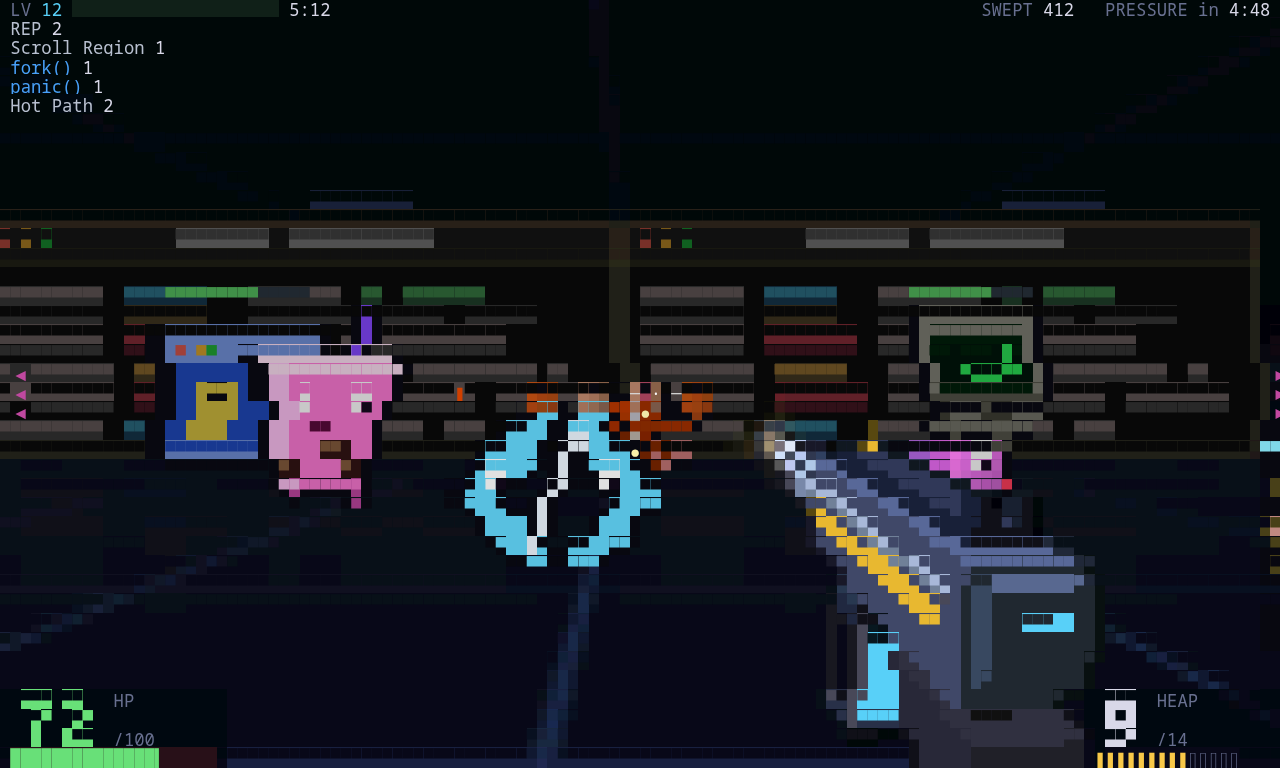
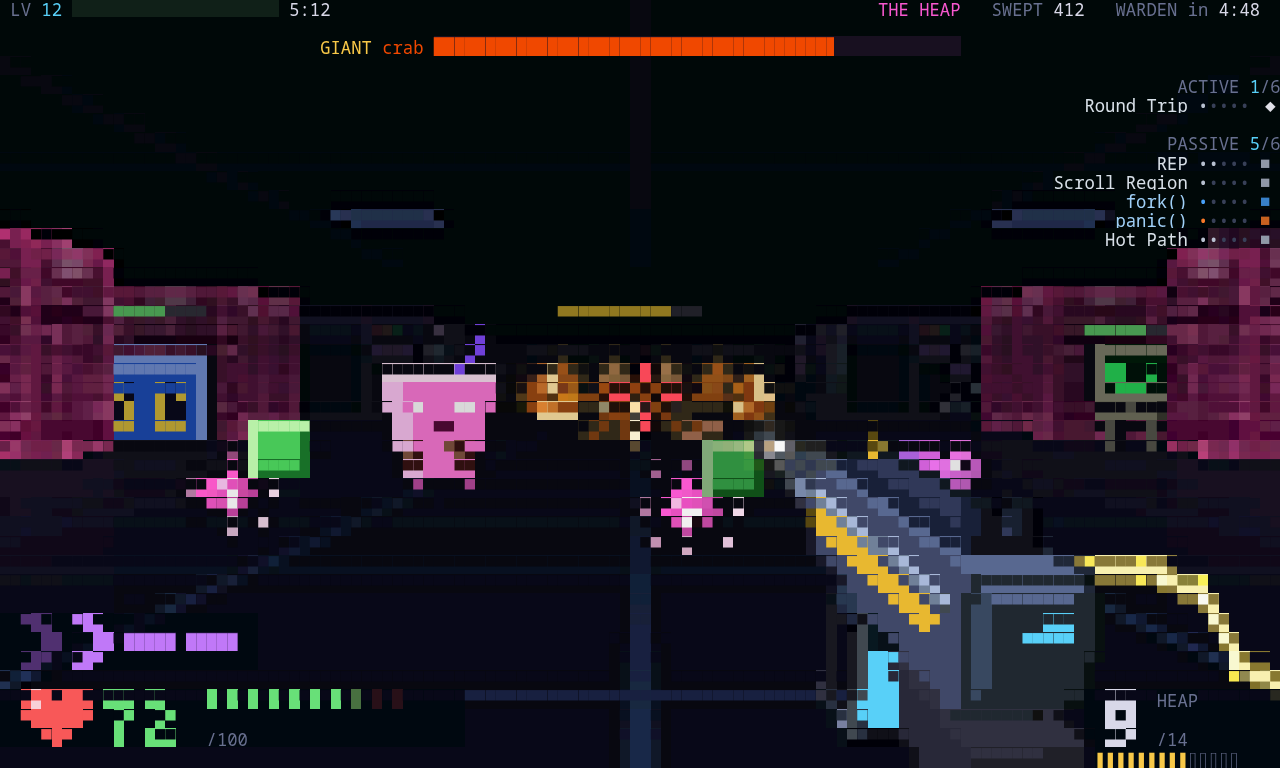
docs: Lemon Sweep's picture as it plays now; Castle Lemonstein off the README
The README's picture of Lemon Sweep was the first version's. The poster
scene (DUMP) now shows a giant crab mini-boss under its bar, a tview modal,
a Bubble Tea cup and an ncurses box at depths of their own, green bytes in
the air, a boomerang, an arc, and the heart and dash mark. Castle
Lemonstein's section is gone from both READMEs; the games are under one
heading. The text says how a run goes now: a map chosen, mini-bosses, bosses
on the clock, the warden, bytes to walk over. Bytes close up stay at most
six pixels square. Lemon Sweep builds against the Limoni with 24-bit colour
in Windows Terminal.

diff --git a/apps/lemonsweep/dump_test.go b/apps/lemonsweep/dump_test.go
@@ -424,19 +424,21 @@ func TestDumpFrame(t *testing.T) {
 	shots["boss-textual"] = boss(kTextual, false, 12)
 	shots["poster"] = func() *game {
 		g := playing()
-		g.pos, g.ang = vec{16.12, 28.2}, -math.Pi/2
+		g.pos, g.ang = vec{16.0, 24.5}, -math.Pi/2
 		g.level, g.kills, g.runTime = 12, 412, 312
+		g.stageT = 312
 		g.bossAt = 1e9 // no boss on the poster
 		for _, a := range []augID{augREP, augREP, augFork, augPanic, augHotPath, augHotPath, augScroll} {
 			pickN(g, a, 1)
 		}
+		pickN(g, augRoundTrip, 1)
 		place := []struct {
 			k kindID
 			p vec
 		}{
-			{kModal, vec{13.9, 22.7}}, {kCrab, vec{15.95, 22.6}}, {kElder, vec{18.0, 22.7}},
-			{kBoba, vec{14.9, 24.4}}, {kBar, vec{17.1, 24.5}},
-			{kJSX, vec{15.9, 25.7}}, {kSpinner, vec{14.4, 26.0}}, {kSpinner, vec{14.0, 26.25}}, {kSpinner, vec{17.6, 26.1}},
+			{kModal, vec{12.25, 17.0}}, {kElder, vec{19.75, 17.0}},
+			{kBoba, vec{15.1, 20.0}}, {kBar, vec{17.0, 20.5}},
+			{kSpinner, vec{14.75, 21.5}}, {kSpinner, vec{16.13, 21.9}},
 		}
 		for _, e := range place {
 			i := g.addEnemy(e.k, e.p)
@@ -445,12 +447,27 @@ func TestDumpFrame(t *testing.T) {
 				g.enemies[i].hp = g.enemies[i].max * 0.6
 			}
 		}
+		// A mini-boss at the back, under its bar at the top; the rest at
+		// depths of their own, so none hides another.
+		if i := g.addEnemy(kCrab, vec{16.0, 15.0}); i >= 0 {
+			e := &g.enemies[i]
+			e.mini, e.elite, e.phaseOff = true, true, 0
+			e.hp, e.max = 380, 500
+		}
 		g.ammo = 9
 		g.hp = g.st.maxHP * 0.72
-		for i, a := range []float64{-1.66, -1.57, -1.5} {
-			g.shoot(g.pos.add(vec{0, -1.2 - float64(i)*0.9}), a, 10, 0, shotPlayer)
+		for i, a := range []float64{-1.62, -1.57, -1.52} {
+			g.shoot(g.pos.add(vec{0, -1.6 - float64(i)*1.1}), a, 10, 0, shotPlayer)
 		}
-		g.shoot(vec{15.2, 23.4}, math.Pi/2, 5, 0, shotBar)
+		for i, p := range []vec{{15.4, 18.0}, {16.9, 16.6}} {
+			j := g.shoot(p, -math.Pi/2, 10, 1, shotRang)
+			g.shots[j].age = 0.2 + 0.17*float64(i)
+		}
+		g.addArc(vec{16.4, 23.9}, vec{17.0, 20.5}, 0.3, 0.2, 0.3, hex(0xffe14a))
+		for _, p := range []vec{{15.5, 22.5}, {16.6, 21.7}, {14.6, 21.0}} {
+			g.dropBytes(p, 3)
+		}
+		g.dropBytes(vec{16.2, 22.0}, 6)
 		g.recoil = 0.62
 		g.mouseIn, g.mouseX, g.mouseY, g.viewW, g.viewH = true, 64, 21, 124, 40
 		g.msgT = 0

diff --git a/apps/lemonsweep/render.go b/apps/lemonsweep/render.go
@@ -882,7 +882,7 @@ func (g *game) drawByte(v *view, pos vec, o *orb) {
 	if o.xp >= 5 {
 		size = 0.2
 	}
-	n := int(math.Min(10, math.Max(1, size*2*rows)))
+	n := int(math.Min(6, math.Max(1, size*2*rows))) // close up, a square, not a wall of green
 	cy := 2 * (v.horizon + 0.5*rows - (0.3+0.08*math.Sin(o.t*5))*rows)
 	x0, y0 := int(sx)-n/2, int(cy)-n/2
 	k := (0.45 + 0.55*fog(depth)) * float32(0.85+0.15*math.Sin(o.t*6))

diff --git a/README_TR.md b/README_TR.md
@@ -220,24 +220,7 @@ backdrop-shell enable -scene synthwave    # ya da -image duvar.jpg, ya da -art b
 Kendi art'ını çizmek ve canlandırmak: [docs/tr/backdrop-art.md](docs/tr/backdrop-art.md). Aynı sahneler
 `limoni.WithBackdrop(backdrop.Aurora())` ile her Limoni uygulamasının arkasına da konabilir.
 
-### Bir de oyun: Castle Lemonstein
-
-<p align="center"><img src="assets/castle-lemonstein.png" alt="Castle Lemonstein: ay ışığında kale, altın renkli başlık ve bordo sancaklarla açılış ekranı" width="100%" /></p>
-
-[**Castle Lemonstein**](apps/castle-lemonstein) kısa bir birinci şahıs oyunu. Fareleri limon suyuyla vur, sancaklarla süslü taş kalede on limon bul;
-sonra inin kapısı açılır ve karşına farelerin kralı Ratatui çıkar: tacı, can barı ve fırlatacak peyniri var.
-
-```bash
-go install github.com/thebanri/limoni/apps/castle-lemonstein@latest
-castle-lemonstein
-```
-
-Ya da [tarayıcıda oyna](https://thebanri.github.io/limoni/?app=castle-lemonstein), sesiyle birlikte.
-
-Yarım bloklarla hücre başına iki piksel çizen bir raycaster: ışıklı dokular, piksel sanatı fareler, piksel piksel
-ışın izlenen 3D yarım limonlar ve açılışta sentezlenen sesler. Bir kare, diff dahil hiç bellek ayırmaz. Tuşları
-`WithKeyReleases` ile basılı tutar; kitty, Ghostty ve WezTerm'de yürüyüş akıcıdır. Her oyun isabet ve süreye
-göre puanlanır; skor tablosu bir dosyada ya da tarayıcının deposunda saklanır.
+### Bir de oyunlar
 
 [**Lemon Drop**](apps/lemondrop) düşen bloklar oyunu; yere değen parça kendi renginde kuma dönüşüp dağılır.
 Duvardan duvara uzanan tek renkli bir kum yolu satırın yerini tutar: yanıp söner, üstündekiler düşer ve
@@ -264,7 +247,7 @@ lemonsnake
 Ya da [tarayıcıda oyna](https://thebanri.github.io/limoni/?app=lemonsnake); sesi ve dünya skor
 tablosu da var.
 
-<p align="center"><img src="assets/lemonsweep.png" alt="Lemon Sweep: terminal pencerelerinden bir koridorda üstüne gelen bir tview modalı, bir Bubble Tea bardağı, Ferris, bir ncurses kutusu ve bir ilerleme çubuğu" width="100%" /></p>
+<p align="center"><img src="assets/lemonsweep.png" alt="Lemon Sweep: üstte can barıyla dev bir yengeç mini boss, terminal penceresi duvarlar arasında bir tview modalı, bir Bubble Tea bardağı ve bir ncurses kutusu, havada yeşil baytlar, bir bumerang ve bir şimşek, sol altta kalp ve dash işareti" width="100%" /></p>
 
 [**Lemon Sweep**](apps/lemonsweep) terminallerden yapılmış bir terminalde geçen birinci şahıs bir roguelite:
 duvarlar bir kabuk, bir log görüntüleyici, biraz Go ve htop. Sen çöp toplayıcısın; Bubble Tea, Ratatui,
@@ -273,8 +256,10 @@ yuvarlak kutular ve spinner'lar, Ferris, ölünce düğmelerine bölünen çift 
 `</>`. Mouse ile nişan alırsın (boşalan şarjör kendiliğinden dolar) ve her seviyede bir augment kartı
 seçersin; elindeki her kart son seviyesindeyse seviye rastgele bir stat verir. Bölünen, seken, patlayan ve
 sıçrayan mermiler birbirini katlayıp bozuk bir şeye dönüşür; hangi kartların birlikte iyi gittiğini
-RECIPES (tarif kitabı) söyler. On dakikadan sonra baskı başlar (zırh, yalıtım, hız) ve hiçbir
-build ona uzun dayanmaz. Skor tablosu yok: rekorlar makinede ya da tarayıcıda kalır.
+RECIPES (tarif kitabı) söyler. Başlıkta dört haritadan birini seçersin: her iki dakikada bir mini boss,
+her iki buçuk dakikada bir boss, onuncu dakikada haritanın bekçisi gelir; o ayakta kalırsa baskı başlar
+(zırh, yalıtım, hız) ve hiçbir build ona uzun dayanmaz. Deneyim sen üstünden geçene kadar havada asılı
+kalır, köşe de saklanacak yer değildir. Skor tablosu yok: rekorlar makinede ya da tarayıcıda kalır.
 
 ```bash
 go install github.com/thebanri/limoni/apps/lemonsweep@latest

diff --git a/README.md b/README.md
@@ -236,24 +236,7 @@ backdrop-shell enable -scene synthwave    # or -image wall.jpg, or -art my-art.t
 Drawing and animating your own: [docs/backdrop-art.md](docs/backdrop-art.md). The same scenes go
 behind any Limoni application with `limoni.WithBackdrop(backdrop.Aurora())`.
 
-### And a game: Castle Lemonstein
-
-<p align="center"><img src="assets/castle-lemonstein.png" alt="Castle Lemonstein: the moonlit castle title screen with gold lettering and burgundy banners" width="100%" /></p>
-
-[**Castle Lemonstein**](apps/castle-lemonstein) is a short first-person game. Squirt the rats and find ten lemons inside a banner-lined stone castle,
-and the gate to the lair lifts on Ratatui, king of the rats, who has a crown, a health bar and cheese to throw.
-
-```bash
-go install github.com/thebanri/limoni/apps/castle-lemonstein@latest
-castle-lemonstein
-```
-
-Or [play it in the browser](https://thebanri.github.io/limoni/?app=castle-lemonstein), sound included.
-
-It is a raycaster drawn two pixels to a cell in half blocks, with lit textures, pixel-art rats, 3D half lemons
-ray-traced per pixel, and sound synthesised at start-up. A frame allocates nothing, through the diff too. It
-holds keys down with `WithKeyReleases`, so walking is smooth in kitty, Ghostty and WezTerm. Runs are scored
-on aim and time, onto a leaderboard kept in a file, or in the browser's storage.
+### And some games
 
 [**Lemon Drop**](apps/lemondrop) is falling blocks where a piece that lands crumbles into sand of its colour.
 A run of one colour that reaches from wall to wall is the line: it flashes and goes, and what rested on it
@@ -281,7 +264,7 @@ lemonsnake
 Or [play it in the browser](https://thebanri.github.io/limoni/?app=lemonsnake), with its sound and the
 world leaderboard.
 
-<p align="center"><img src="assets/lemonsweep.png" alt="Lemon Sweep: a tview modal, a Bubble Tea cup, Ferris, an ncurses box and a progress bar coming down a corridor of terminal windows" width="100%" /></p>
+<p align="center"><img src="assets/lemonsweep.png" alt="Lemon Sweep: a giant crab mini-boss under its health bar at the top, a tview modal, a Bubble Tea cup and an ncurses box among terminal-window walls, green bytes in the air, a boomerang and an arc of lightning, the heart and the dash mark at the bottom left" width="100%" /></p>
 
 [**Lemon Sweep**](apps/lemonsweep) is a first-person roguelite in a terminal made of terminals: the walls
 are a shell, a log viewer, some Go and htop. You are the garbage collector, and Bubble Tea, Ratatui, tview,
@@ -290,7 +273,9 @@ spinners, Ferris, double-lined modals that split into their buttons, `</>` that 
 the mouse (an empty heap reloads by itself), and take an augment card every level; once every card held
 is at its last rank, a level is a random stat. Shots that split, bounce, explode and arc multiply each
 other into something broken, and the RECIPES book says which cards do.
-After ten minutes the pressure builds (armour, insulation, speed), and no build holds it for long. There is
+Pick one of four maps on the title: a mini-boss comes every two minutes, a boss every two and a half, and
+the map's warden at ten; if it stands, the pressure builds (armour, insulation, speed), and no build holds
+it for long. Experience hangs in the air until you walk over it, and a corner is no place to hide. There is
 no leaderboard: records stay on the machine, or in the browser.
 
 ```bash
